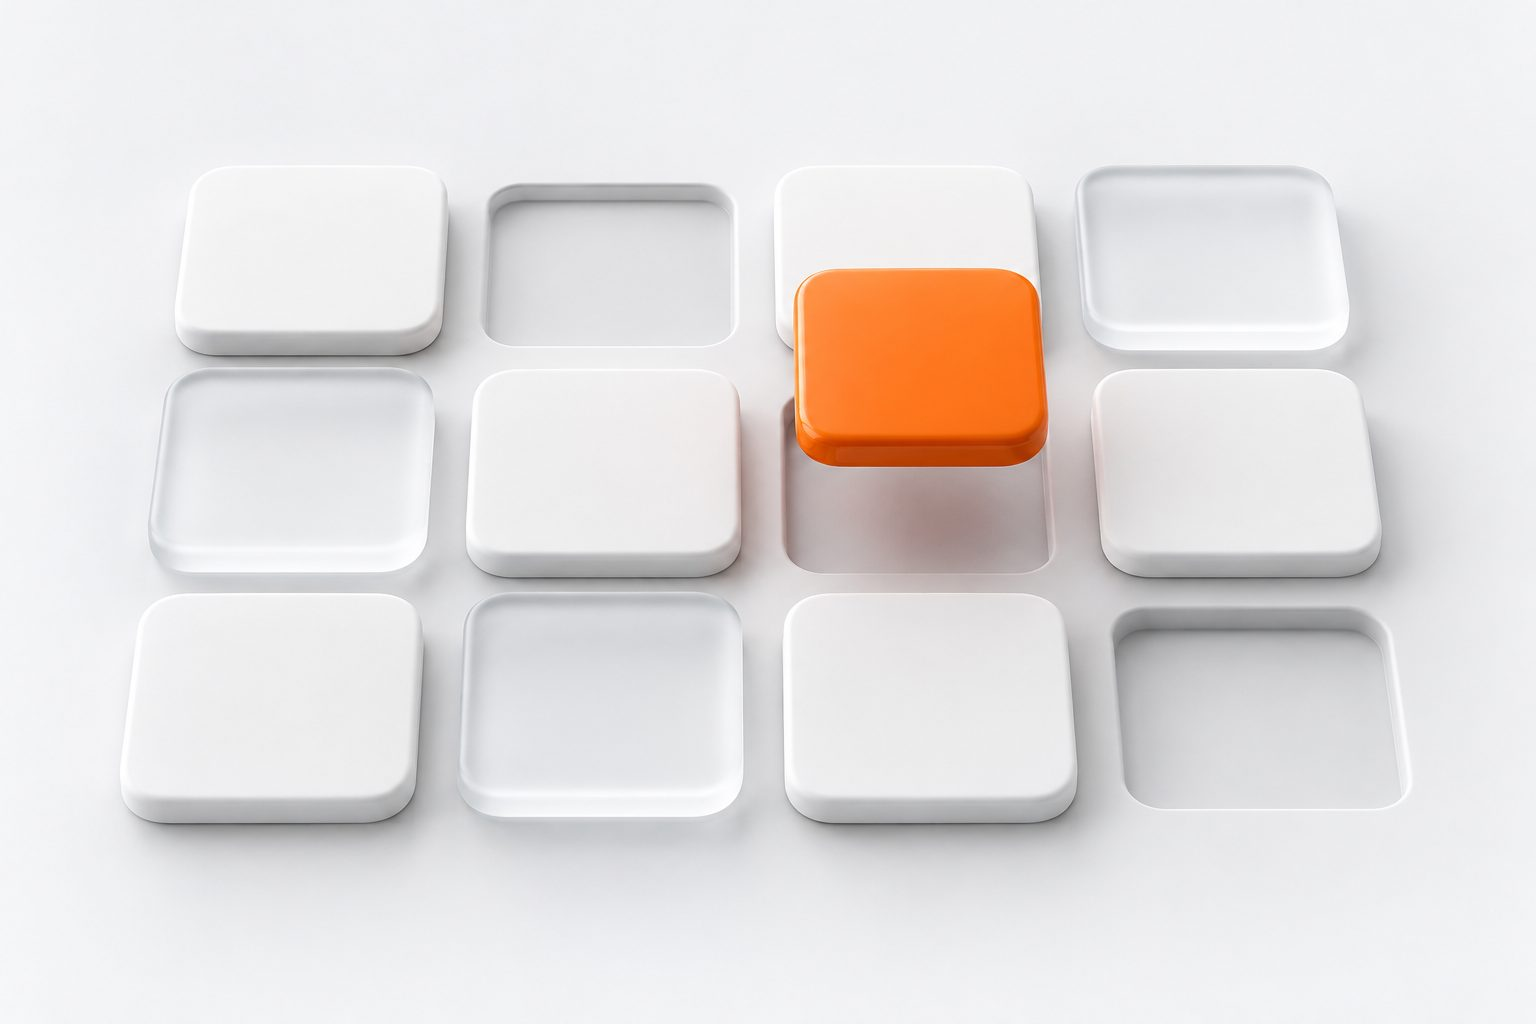
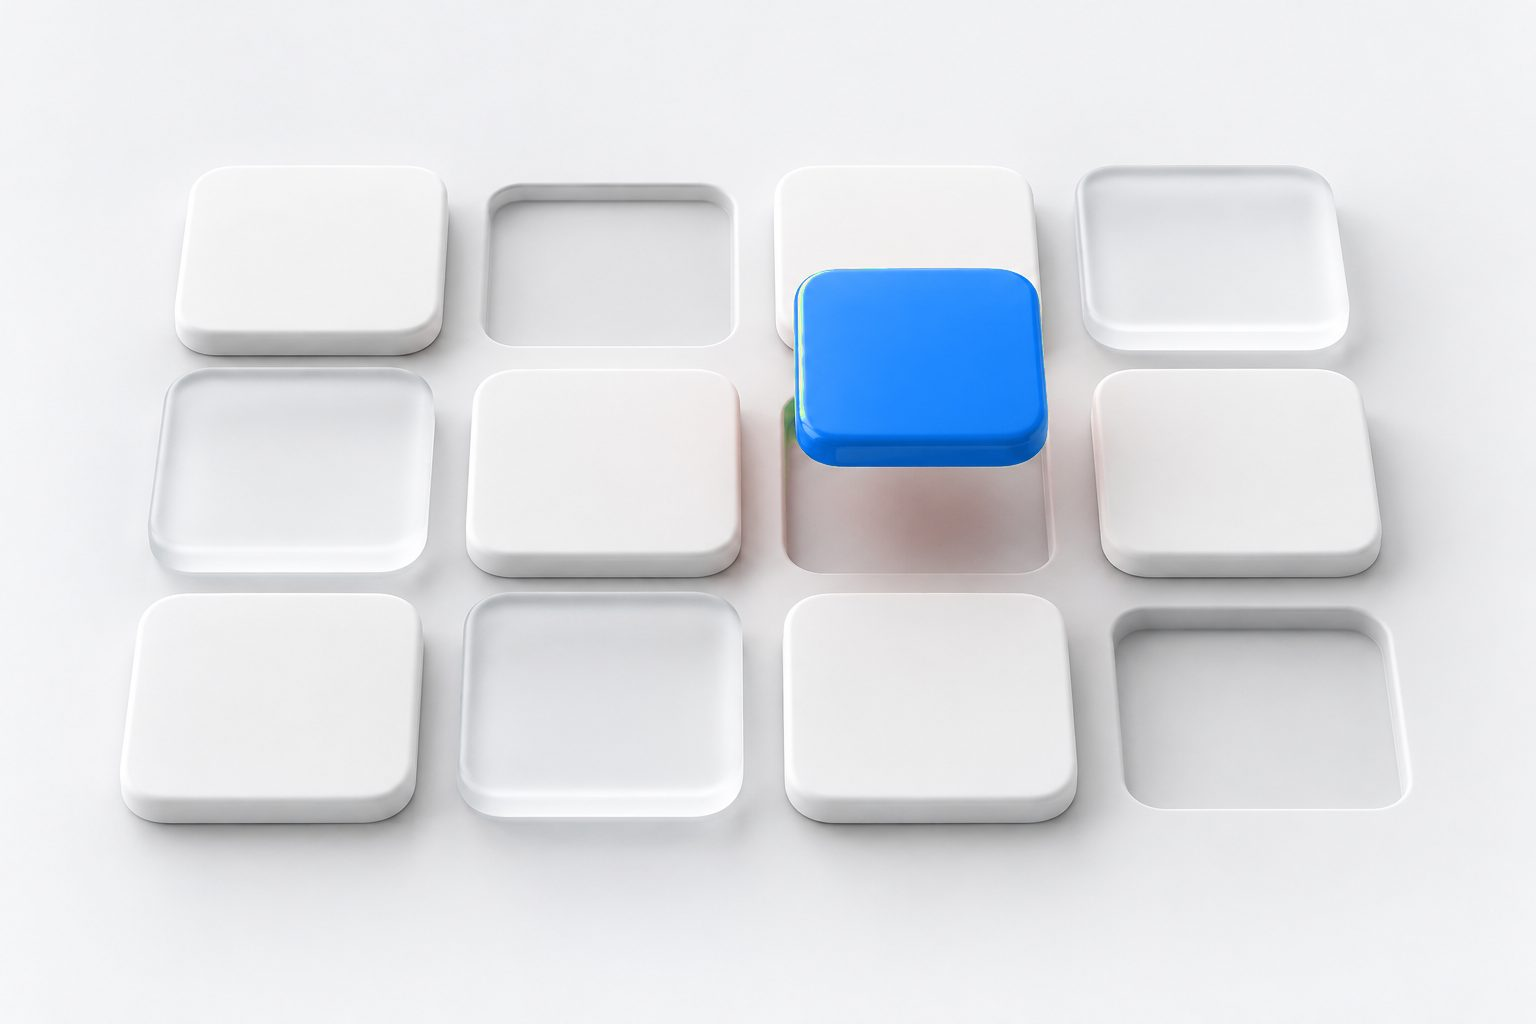
Site: no unreleased device anywhere until it ships
Removed the unnamed-friend teaser from RickyVerse and its card from the
installer's device row (Read Pico + more devices remain), and the white body /
orange dot motif with it: the developer and RickyVerse key visuals lose their
orange (recoloured to blue / blue-violet for now; to be re-rendered). A page test
now fails if any page names or hints at an unreleased device. Also drop an inline
style the CSP blocked.

Changed region(s): [[0.5, 0.25, 0.6875, 0.4688]]

diff --git a/tools/rickyos-flasher/install.html b/tools/rickyos-flasher/install.html
@@ -3,7 +3,7 @@
 <head><meta charset="utf-8"><meta name="viewport" content="width=device-width,initial-scale=1"><meta name="description" content="RickyOS 安装工作台。选择设备，自动检查系统、可选完整备份并校验安装结果。"><meta name="referrer" content="no-referrer"><meta http-equiv="Content-Security-Policy" content="default-src 'self'; script-src 'self' 'wasm-unsafe-eval'; style-src 'self'; img-src 'self' data:; connect-src 'self'; object-src 'none'; base-uri 'self'; form-action 'none'"><title>RickyOS · 安装工作台</title><link rel="stylesheet" href="./src/site.css"></head>
 <body class="concept-b"><a class="skip" href="#install">跳到安装面板</a>
 <header class="b-header"><div class="b-header-inner"><a class="b-brand" href="./"><b class="b-word">RICKY AI STUDIO</b><span>安装 RickyOS</span></a><a class="b-studio" href="./">返回首页</a></div></header>
-<main class="b-main"><div class="b-title"><div><p class="minor">安装工作台</p><h1>选择设备，安装 RickyOS。</h1><p>目前支持小纸 Read Pico，自动判断当前系统，直接安装。</p></div></div><section class="device-picker" aria-label="选择设备"><div class="dp-option dp-active" aria-current="true"><span class="dp-thumb dp-pico" aria-hidden="true"></span><span class="dp-text"><b>小纸 Read Pico</b><span>MindReset · RDP-G01-W</span></span><em>可安装</em></div><div class="dp-option dp-soon" aria-disabled="true"><span class="dp-thumb dp-friend" aria-hidden="true"></span><span class="dp-text"><b>一位朋友</b><span>不愿意透露姓名</span></span><em>正在赶来</em></div><div class="dp-option dp-soon" aria-disabled="true"><span class="dp-thumb dp-more" aria-hidden="true">+</span><span class="dp-text"><b>更多设备</b><span>RickyVerse</span></span><em>正在加载</em></div></section>
+<main class="b-main"><div class="b-title"><div><p class="minor">安装工作台</p><h1>选择设备，安装 RickyOS。</h1><p>目前支持小纸 Read Pico，自动判断当前系统，直接安装。</p></div></div><section class="device-picker" aria-label="选择设备"><div class="dp-option dp-active" aria-current="true"><span class="dp-thumb dp-pico" aria-hidden="true"></span><span class="dp-text"><b>小纸 Read Pico</b><span>MindReset · RDP-G01-W</span></span><em>可安装</em></div><div class="dp-option dp-soon" aria-disabled="true"><span class="dp-thumb dp-more" aria-hidden="true">+</span><span class="dp-text"><b>更多设备</b><span>RickyVerse</span></span><em>正在加载</em></div></section>
 <div id="demo-banner" class="notice demo-notice" hidden>流程演示 · 不连接设备、不读取备份、不执行任何 Flash 写入。<a href="./install.html">退出演示 →</a></div>
 <div class="b-workspace"><aside class="b-device"><div class="b-device-title"><b>你的设备</b><span class="status-dot" id="device-state">未连接</span></div><figure><div class="b-screen b-photo"><img src="./src/assets/device-pico.jpg" alt="运行 RickyOS 1.2 的小纸 Read Pico，小狗伴读模式" width="360" height="634"></div><figcaption>RickyOS 1.2 实拍照片</figcaption></figure><h2>MindReset Read Pico</h2><dl><div><dt>型号</dt><dd>RDP-G01-W</dd></div><div><dt>芯片 / Flash</dt><dd>ESP32-S3 / 16 MB</dd></div><div><dt>屏幕</dt><dd>684 × 1216</dd></div></dl><p class="b-device-note">只适用于已确认的 Read Pico 设备。<br>原厂或已刷其他系统的设备都可以直接安装。</p></aside>
 <section class="b-console" id="install" aria-label="RickyOS 安装面板"><div class="b-console-top"><div><span class="minor">安装面板</span><h2>安装 RickyOS</h2></div><span class="version-pill" id="release-tag">正在检查发行版本</span></div>

diff --git a/tools/rickyos-flasher/src/site.css b/tools/rickyos-flasher/src/site.css
@@ -18,14 +18,12 @@
 .done-dialog{width:min(420px,calc(100% - 32px));border:0;border-radius:12px;padding:32px 30px 26px;text-align:center;color:#17181b;box-shadow:0 20px 48px #0f172a2e}.done-dialog::backdrop{background:#0f172a59}.done-mark{display:inline-flex;align-items:center;justify-content:center;width:44px;height:44px;border-radius:50%;background:#e8effc;color:#2266db;font-size:22px}.done-dialog h2{font-size:18px;font-weight:600;margin:14px 0 10px}.done-dialog p{font-size:12px;line-height:1.9;color:#4b515c;margin:0}.done-dialog .done-hint{color:#7a8290;margin-top:8px}.done-dialog button{margin-top:22px;min-width:140px;justify-content:center}
 
 /* Device picker: one row of devices above the workspace. Only available devices are live. */
-.device-picker{display:grid;grid-template-columns:repeat(3,1fr);gap:14px;margin:0 0 22px}
+.device-picker{display:grid;grid-template-columns:repeat(2,1fr);gap:14px;margin:0 0 22px}
 .dp-option{display:flex;align-items:center;gap:14px;background:#fff;border:1px solid #dfe2e7;border-radius:10px;padding:14px 16px;min-width:0}
 .dp-active{border-color:#16171a;box-shadow:0 0 0 1px #16171a}
 .dp-soon{background:#f8f8f9;color:#8a8f98}
 .dp-thumb{flex:none;width:34px;height:52px;border-radius:6px;display:grid;place-items:center;position:relative}
 .dp-pico{background:#efeee9 url('./assets/device-pico.jpg') center/cover;border:1px solid #e1e0dc}
-.dp-friend{background:#fff;border:1px solid #dcdcdc;box-shadow:0 2px 8px #0000000d}
-.dp-friend:after{content:'';position:absolute;left:5px;bottom:5px;width:9px;height:9px;border-radius:50%;background:#e8691f}
 .dp-more{border:1px dashed #c6cad1;color:#a0a5ad;font-size:18px}
 .dp-text{display:flex;flex-direction:column;gap:3px;min-width:0;flex:1}
 .dp-text b{font-size:13px;font-weight:600;color:#17181b}

diff --git a/tools/rickyos-flasher/tests/pages.test.js b/tools/rickyos-flasher/tests/pages.test.js
@@ -69,10 +69,13 @@ test('site navigation is the studio, RickyOS, developer program, RickyVerse and 
   assert.match(await read('27.html'), /url=\.\/verse\.html/);
 });
 test('installer offers a device choice with only Read Pico available', async () => {
+  // Unreleased devices are not named or hinted at anywhere on the site.
+  for (const file of ['index.html', 'rickyos.html', 'developers.html', 'verse.html', 'install.html'])
+    assert.doesNotMatch(await read(file), /不愿意透露姓名|一位朋友|正在赶来|f-emblem|dp-friend/, file);
   const html = await read('install.html');
   const picker = html.match(/<section class="device-picker"[\s\S]*?<\/section>/)?.[0] ?? '';
-  assert.equal((picker.match(/class="dp-option/g) ?? []).length, 3);
+  assert.equal((picker.match(/class="dp-option/g) ?? []).length, 2);
   assert.equal((picker.match(/dp-active/g) ?? []).length, 1);
   assert.match(picker, /dp-active[^>]*>[\s\S]*?Read Pico/);
-  assert.equal((picker.match(/aria-disabled="true"/g) ?? []).length, 2);
+  assert.equal((picker.match(/aria-disabled="true"/g) ?? []).length, 1);
 });

diff --git a/tools/rickyos-flasher/src/home.css b/tools/rickyos-flasher/src/home.css
@@ -93,10 +93,6 @@ summary::-webkit-details-marker{display:none}
 .f-dark{background:#000;color:#f5f5f7}
 .f-dark .eyebrow,.f-dark .sub{color:#a1a1a6}
 .f-gradient{background:linear-gradient(90deg,#f5f5f7 0%,#ffffff 30%,#ffb26b 70%,#ff6a1f 100%);-webkit-background-clip:text;background-clip:text;color:transparent}
-.f-friend{margin:56px auto 0;display:flex;flex-direction:column;align-items:center;gap:22px}
-.f-emblem{width:64px;aspect-ratio:1/1.72;border-radius:12px;background:#f5f5f7;position:relative;box-shadow:0 0 50px rgba(255,255,255,.16)}
-.f-emblem:after{content:'';position:absolute;left:13%;bottom:7%;width:24%;aspect-ratio:1;border-radius:50%;background:#ff6a1f}
-.f-friend p{font-size:17px;color:#a1a1a6}
 
 /* Footer. */
 .h-footer{background:var(--gray)}
@@ -119,3 +115,4 @@ summary::-webkit-details-marker{display:none}
   .p-section,.p-steps{padding:64px 0}
 }
 @media (max-width:640px){.h-nav a:not(.h-cta){display:none}.h-brand{font-size:12px;letter-spacing:.12em}}
+.tile-gap{height:12px}

diff --git a/tools/rickyos-flasher/index.html b/tools/rickyos-flasher/index.html
@@ -28,7 +28,7 @@
 <section class="tile tile-dark"><h2>RickyVerse</h2><p class="sub">平行宇宙，正在加载。</p><div class="links"><a href="./verse.html">进一步了解</a></div><img class="tile-art" src="./src/assets/home/verse-key.jpg" width="1536" height="1024" alt="一排在黑暗中依次远去的屏幕，从纸色墨水屏到像素屏再到彩色屏" loading="lazy"></section>
 </div>
 </main>
-<div style="height:12px"></div>
+<div class="tile-gap"></div>
 <footer class="h-footer"><div class="wrap">
 <span>© Ricky AI Studio</span>
 <a href="./licenses.html">使用授权与隐私</a>

diff --git a/tools/rickyos-flasher/verse.html b/tools/rickyos-flasher/verse.html
@@ -22,7 +22,6 @@
 <h1><span class="f-gradient">平行宇宙，<br>正在加载。</span></h1>
 <p class="sub">一套系统，走进更多设备。</p>
 <img class="f-art" src="./src/assets/home/verse-key.jpg" width="1536" height="1024" alt="一排在黑暗中依次远去的屏幕，从纸色墨水屏到像素屏再到彩色屏">
-<div class="f-friend"><div class="f-emblem" aria-hidden="true"></div><p>有一位不愿意透露姓名的朋友，正在赶来。</p></div>
 </div>
 </main>
 <footer class="h-footer"><div class="wrap">
